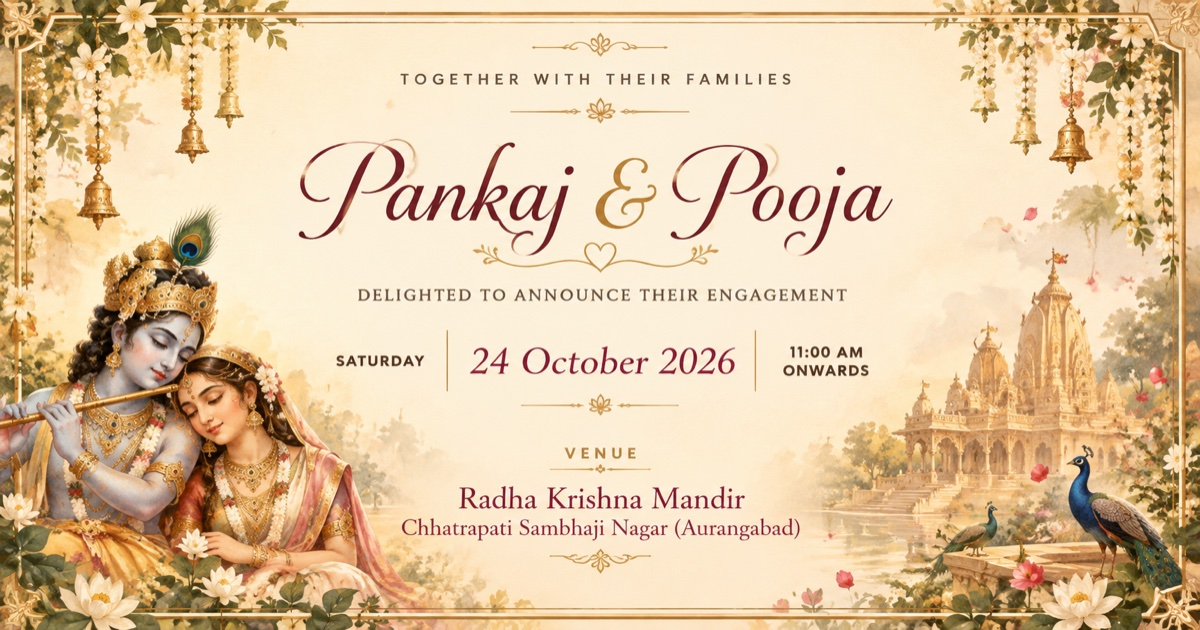
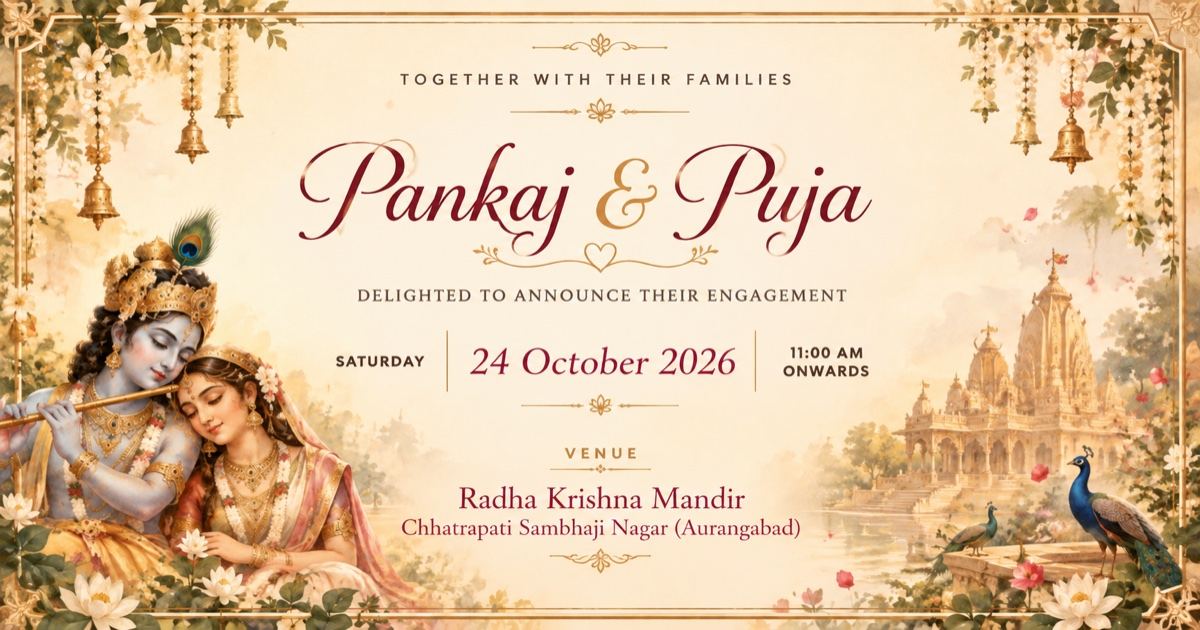
Replace Pooja name with Puja across invitation

diff --git a/components/Hero.jsx b/components/Hero.jsx
@@ -16,7 +16,7 @@ const detailReveal = {
 export default function Hero({
   isVisible,
   nameFirst = "Pankaj",
-  nameSecond = "Pooja",
+  nameSecond = "Puja",
   phoneDisplay = "9420424760 / 7666658717",
   phoneHref = "tel:9420424760"
 }) {
@@ -54,7 +54,7 @@ export default function Hero({
             <motion.p variants={detailReveal} className="mt-1 text-[9px] font-bold uppercase tracking-[0.18em] text-[#a57548] sm:mt-5 sm:text-xs">Venue</motion.p>
             <motion.p variants={detailReveal} className="mt-0.5 font-display text-sm leading-4 text-[#8f3b55] sm:mt-2 sm:text-2xl sm:leading-8">Radha Krishna Mandir<br />Chhatrapati Sambhaji Nagar</motion.p>
             <motion.div initial={{ opacity: 0, y: 100, scale: 0.86 }} animate={isVisible ? { opacity: 1, scale: 1, y: [0, -4, 0] } : {}} transition={{ opacity: { duration: 0.65, delay: 1 }, scale: { duration: 0.75, delay: 1, type: "spring", stiffness: 120 }, y: { duration: 3.8, repeat: Infinity, ease: "easeInOut" } }} className="relative z-10 mx-auto mt-1 h-[clamp(3.5rem,14dvh,8rem)] w-full max-w-[10rem] sm:mt-5 sm:max-w-sm">
-              <Image src="/invitation-assets/engagement-logo.png" alt="Pankaj and Pooja engagement illustration" fill unoptimized sizes="(max-width: 640px) 288px, 384px" className="object-contain object-bottom drop-shadow-[0_18px_15px_rgba(87,46,42,.18)]" />
+              <Image src="/invitation-assets/engagement-logo.png" alt="Pankaj and Puja engagement illustration" fill unoptimized sizes="(max-width: 640px) 288px, 384px" className="object-contain object-bottom drop-shadow-[0_18px_15px_rgba(87,46,42,.18)]" />
             </motion.div>
             <motion.p variants={detailReveal} className="mt-0.5 text-[9px] text-ink/80 sm:mt-2 sm:text-sm">With best compliments from <span className="font-display text-sm text-[#8f3b55] sm:text-xl">Family</span></motion.p>
             <motion.a variants={detailReveal} href={phoneHref} className="mt-1 inline-block text-[9px] font-bold text-[#8f3b55] transition hover:text-[#5b2935] sm:mt-5 sm:text-sm">☎ {phoneDisplay}</motion.a>

diff --git a/app/layout.js b/app/layout.js
@@ -3,19 +3,19 @@ import { Analytics } from "@vercel/analytics/next";
 
 export const metadata = {
   metadataBase: new URL("https://pankaj-pooja-invitation.vercel.app"),
-  title: "Pankaj & Pooja — Engagement Invitation",
+  title: "Pankaj & Puja — Engagement Invitation",
   description: "Together with their families, delighted to announce their engagement. Friday, 24 October 2026, 11:00 AM onwards at Radha Krishna Mandir, Chhatrapati Sambhaji Nagar(Aurangabad).",
   openGraph: {
-    title: "Pankaj & Pooja — Engagement Invitation",
+    title: "Pankaj & Puja — Engagement Invitation",
     description: "You're invited! Friday, 24 October 2026, 11:00 AM onwards at Radha Krishna Mandir, Chhatrapati Sambhaji Nagar(Aurangabad).",
     url: "https://pankaj-pooja-invitation.vercel.app",
-    siteName: "Pankaj & Pooja Engagement",
+    siteName: "Pankaj & Puja Engagement",
     images: [
       {
         url: "/invitation-assets/og-preview.png", // your 1200x630 image
         width: 1200,
         height: 630,
-        alt: "Pankaj & Pooja Engagement Invitation"
+        alt: "Pankaj & Puja Engagement Invitation"
       }
     ],
     locale: "en_IN",
@@ -24,7 +24,7 @@ export const metadata = {
   // This specifically controls the WhatsApp/iMessage/Twitter-style card
   twitter: {
     card: "summary_large_image",
-    title: "Pankaj & Pooja — Engagement Invitation",
+    title: "Pankaj & Puja — Engagement Invitation",
     description: "You're invited! Saturday, 24 October 2026, 11:00 AM onwards.",
     images: ["/invitation-assets/og-preview.png"]
   }

diff --git a/components/SplashScreen.jsx b/components/SplashScreen.jsx
@@ -2,7 +2,7 @@
 
 import { motion } from "framer-motion";
 
-export default function SplashScreen({ onEnter, nameFirst = "Pankaj", nameSecond = "Pooja" }) {
+export default function SplashScreen({ onEnter, nameFirst = "Pankaj", nameSecond = "Puja" }) {
   return (
     <motion.div
       className="fixed inset-0 z-50 grid place-items-center overflow-hidden bg-[#4a2630] px-6 text-center text-cream"
